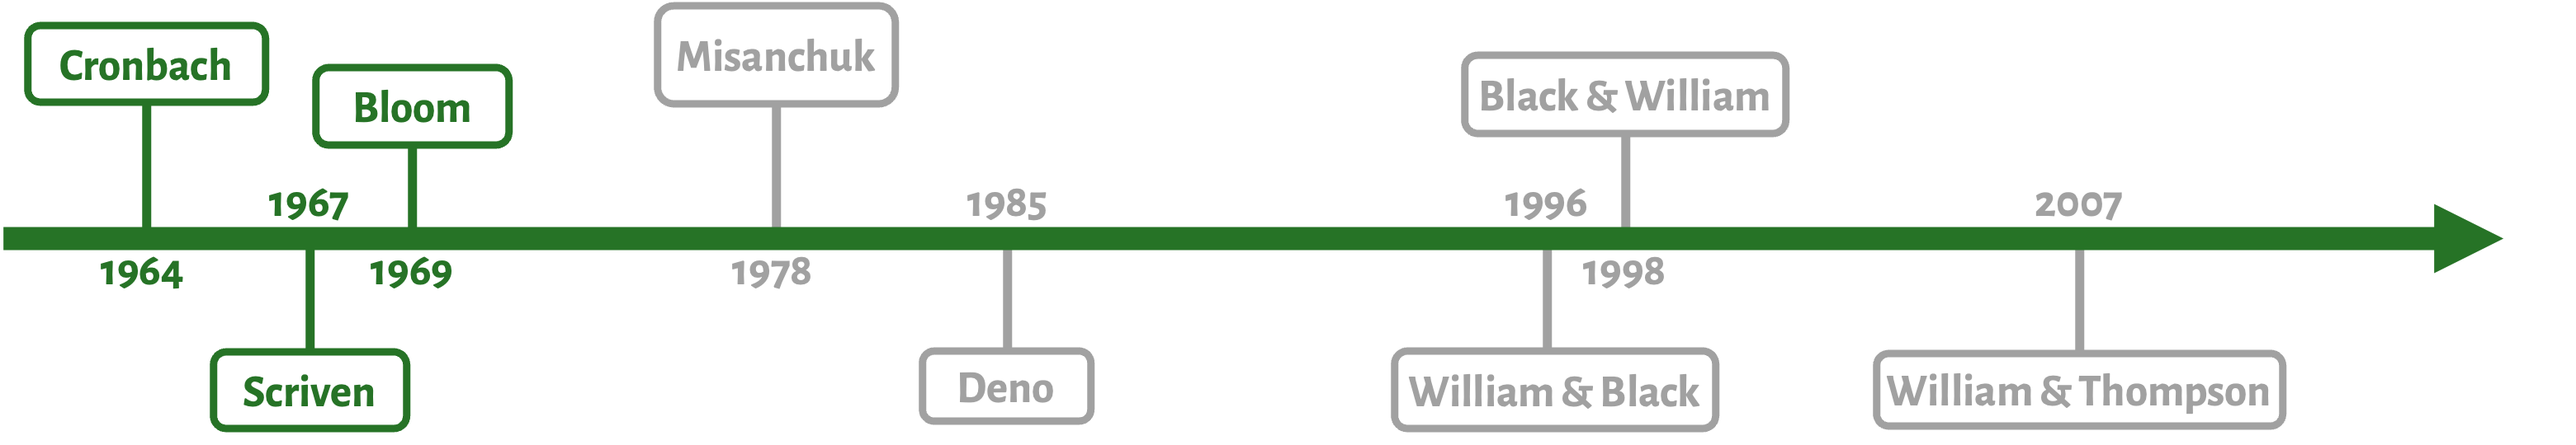
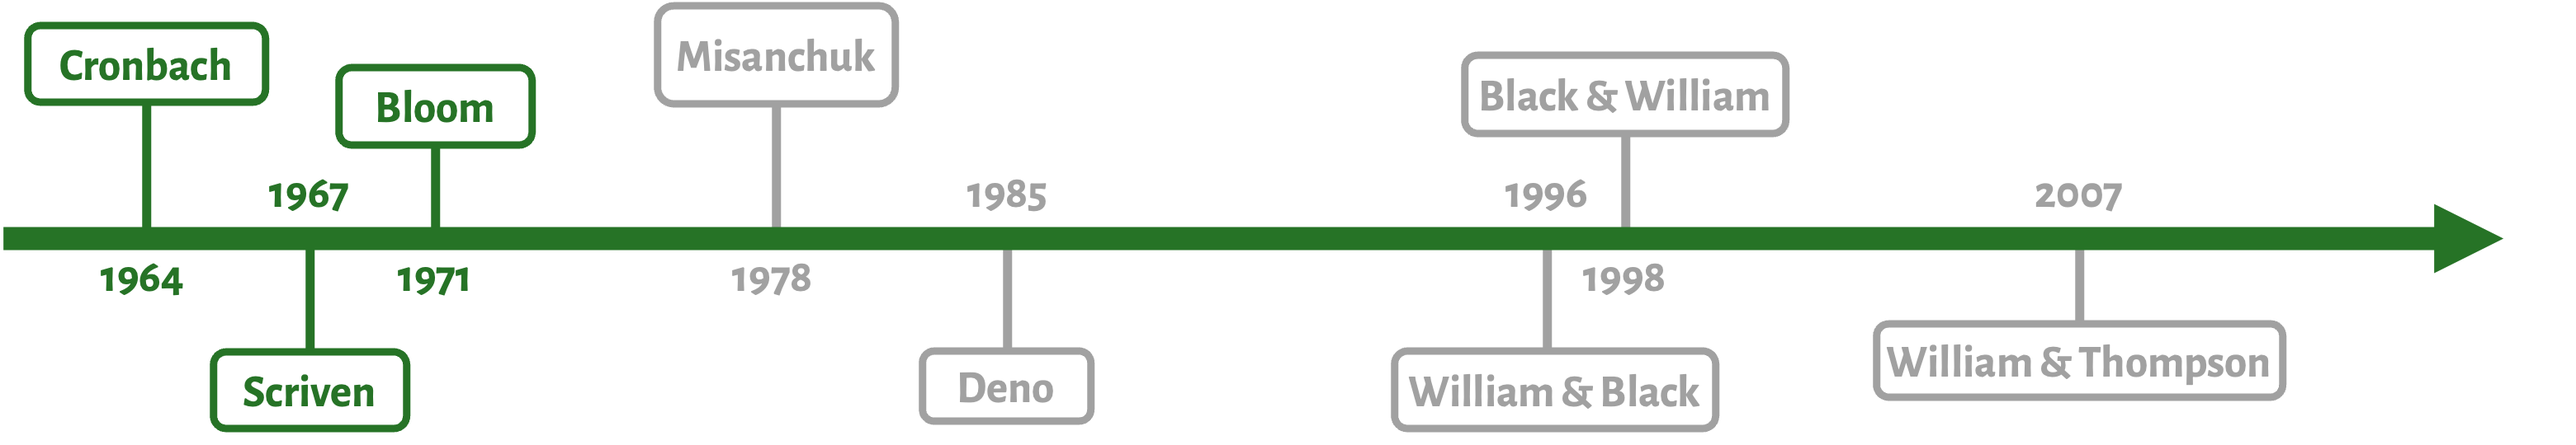
lit

diff --git a/index.html b/index.html
@@ -228,9 +228,9 @@ Tabelle&nbsp;1: Vortragsüberblick
 </center>
 <div>
 <ul>
-<li class="fragment"><em>[…] terminal evaluation (we might call it summative as opposed to formative evaluation) […]</em> <span class="citation" data-cites="scriven1967">(<a href="#/literatur" role="doc-biblioref" onclick="">Scriven, 1967</a>)</span></li>
-<li class="fragment"><em>Evaluation, used to improve the course while it is still fluid</em> <span class="citation" data-cites="cronbach1964">(<a href="#/literatur" role="doc-biblioref" onclick="">Cronbach, 1964</a>)</span></li>
-<li class="fragment"><em>[…] systematic evaluation in the process of curriculum construction, teaching and learning for the purpose of improving any of these three processes […]</em> <span class="citation" data-cites="Bloom1969">(<a href="#/literatur" role="doc-biblioref" onclick="">Bloom, 1969</a>)</span></li>
+<li class="fragment"><em>[…] terminal evaluation (we might call it summative as opposed to formative evaluation) […]</em> <span class="citation" data-cites="scriven1967">(<a href="#/literatur" role="doc-biblioref" onclick="">Scriven, 1967, S. 5</a>)</span></li>
+<li class="fragment"><em>Evaluation, used to improve the course while it is still fluid</em> <span class="citation" data-cites="cronbach1964">(<a href="#/literatur" role="doc-biblioref" onclick="">Cronbach, 1964, S. 236</a>)</span></li>
+<li class="fragment"><em>[…] systematic evaluation in the process of curriculum construction, teaching and learning for the purpose of improving any of these three processes […]</em> <span class="citation" data-cites="bloom1971a">(<a href="#/literatur" role="doc-biblioref" onclick="">Bloom et al., 1971, S. 117</a>)</span></li>
 </ul>
 </div>
 <div class="footer">
@@ -285,17 +285,17 @@ Tabelle&nbsp;1: Vortragsüberblick
 <figure>
 <div class="quarto-figure quarto-figure-left">
 <figure>
-<p><a href="img/WilliamThompson2007.svg" class="lightbox" data-gallery="quarto-lightbox-gallery-4" title="Abbildung 3: Five Key Strategies von @wiliam2007"><img data-src="img/WilliamThompson2007.svg" class="quarto-figure quarto-figure-left" style="width:99.0%" alt="Abbildung 3: Five Key Strategies von Wiliam &amp; Thompson (2007)"></a></p>
+<p><a href="img/WilliamThompson2007.svg" class="lightbox" data-gallery="quarto-lightbox-gallery-4" title="Abbildung 3: Five Key Strategies nach William &amp; Thompson (2007)"><img data-src="img/WilliamThompson2007.svg" class="quarto-figure quarto-figure-left" style="width:99.0%" alt="Abbildung 3: Five Key Strategies nach William &amp; Thompson (2007)"></a></p>
 </figure>
 </div>
-<figcaption>Abbildung 3: Five Key Strategies von <span class="citation" data-cites="wiliam2007">Wiliam &amp; Thompson (<a href="#/literatur" role="doc-biblioref" onclick="">2007</a>)</span></figcaption>
+<figcaption>Abbildung 3: Five Key Strategies nach William &amp; Thompson (2007)</figcaption>
 </figure>
 </div>
 </div>
 </div>
 </div>
 <blockquote>
-<p><em>formative Assessment […] can be conceptualized as consisting of <strong>five key strategies</strong> and <strong>one »big idea«</strong>. […] The »big idea« is that evidence about student learning is used to adjust instruction to better meet student needs.</em> <span class="citation" data-cites="wiliam2007">(<a href="#/literatur" role="doc-biblioref" onclick="">Wiliam &amp; Thompson, 2007</a>. S. 56)</span>.</p>
+<p><em>formative Assessment […] can be conceptualized as consisting of <strong>five key strategies</strong> and <strong>one »big idea«</strong>. […] The »big idea« is that evidence about student learning is used to adjust instruction to better meet student needs.</em> <span class="citation" data-cites="wiliam2007">(<a href="#/literatur" role="doc-biblioref" onclick="">Wiliam &amp; Thompson, 2007</a>. S. 64)</span>.</p>
 </blockquote>
 <div class="footer">
 <p><span style="color: #b4b4b4;"><iconify-icon role="img" inline="" icon="fa6-solid:timeline" aria-label="Icon timeline from fa6-solid Iconify.design set." title="Icon timeline from fa6-solid Iconify.design set."></iconify-icon></span> - <strong><iconify-icon role="img" inline="" icon="fa6-solid:scale-unbalanced" aria-label="Icon scale-unbalanced from fa6-solid Iconify.design set." title="Icon scale-unbalanced from fa6-solid Iconify.design set."></iconify-icon></strong> - <span style="color: #b4b4b4;"><iconify-icon role="img" inline="" icon="charm:binary" aria-label="Icon binary from charm Iconify.design set." title="Icon binary from charm Iconify.design set."></iconify-icon> - <iconify-icon role="img" inline="" icon="fa6-solid:microscope" aria-label="Icon microscope from fa6-solid Iconify.design set." title="Icon microscope from fa6-solid Iconify.design set."></iconify-icon></span></p>
@@ -340,7 +340,7 @@ Tabelle&nbsp;1: Vortragsüberblick
 <p>Digitale Transformation <iconify-icon role="img" inline="" icon="charm:binary" aria-label="Icon binary from charm Iconify.design set." title="Icon binary from charm Iconify.design set."></iconify-icon></p>
 </div>
 <ul>
-<li><strong>Einerseits</strong> ist digitale Technologie in Unterrichtssettings weder notwendige noch hinreichende Bedingung für (Lern-)Erfolg <span class="citation" data-cites="bez2022 hamilton2016 scheiter2019">(<a href="#/literatur" role="doc-biblioref" onclick="">Bez et al., 2022</a>; <a href="#/literatur" role="doc-biblioref" onclick="">Hamilton et al., 2016</a>; <a href="#/literatur" role="doc-biblioref" onclick="">Scheiter &amp; Lachner, 2019</a>)</span></li>
+<li><strong>Einerseits</strong> ist digitale Technologie in Unterrichtssettings weder eine notwendige noch hinreichende Bedingung für (Lern-)Erfolg <span class="citation" data-cites="bez2023 hamilton2016 scheiter2019">(<a href="#/literatur" role="doc-biblioref" onclick="">Bez et al., 2023</a>; <a href="#/literatur" role="doc-biblioref" onclick="">Hamilton et al., 2016</a>; <a href="#/literatur" role="doc-biblioref" onclick="">Scheiter &amp; Lachner, 2019</a>)</span></li>
 <li><strong>Andererseits</strong> sind digitalen Technologien <span class="imp"><em>Charakteristika</em></span> inhärent, welche die Umsetzung von formativem Assessment enorm erleichtern können:
 <ul>
 <li><span class="imp"><em>Echtzeitdatenverarbeitung</em></span> <span class="math inline">\(\Rightarrow\)</span> z.B. sofortiges Feedback</li>
@@ -417,29 +417,29 @@ Bez, S., Burkart, F., Tomasik, M. J., &amp; Merk, S. (2025). How do teachers pro
 <div id="ref-bez2025individuelle" class="csl-entry" role="listitem">
 Bez, S., Paizan, M., Karst, K., &amp; Merk, S. (2025, Januar). Individuelle <span>Lesef<span>ö</span>rderung</span> durch <span>Lehramtsstudierende</span> auf der <span>Basis</span> von <span>Lernverlaufsdiagnostik</span>. <em><span>GEBF</span></em>.
 </div>
-<div id="ref-bez2022" class="csl-entry" role="listitem">
-Bez, S., Tomasik, M. J., &amp; Merk, S. (2022). Datenkompetenz Als Notwendige <span>Voraussetzung</span> Für Das <span>Gelingen</span> von Datenbasierter <span>Unterrichtsentwicklung</span> in Einer Digitalisierten (<span>Bildungs-</span>)<span>Welt</span>. <em>Zeitschrift für Erziehungswissenschaft</em>.
+<div id="ref-bez2023" class="csl-entry" role="listitem">
+Bez, S., Tomasik, M. J., &amp; Merk, S. (2023). <span>Data-based decision making in einer digitalen Welt: Data Literacy von Lehrpersonen als notwendige Voraussetzung</span>. In K. Scheiter &amp; I. Gogolin (Hrsg.), <em><span>Bildung f<span>ü</span>r eine digitale Zukunft</span></em> (S. 339–362). Springer Fachmedien. <a href="https://doi.org/10.1007/978-3-658-37895-0_14">https://doi.org/10.1007/978-3-658-37895-0_14</a>
 </div>
 <div id="ref-bez_inprep" class="csl-entry" role="listitem">
 Bez, S., Tomasik, M., &amp; Merk, S. (in preparation). <em>Fostering teachers’ interpretations of formative assessment results using clustered heatmaps</em>.
 </div>
 <div id="ref-black1998" class="csl-entry" role="listitem">
-Black, P., &amp; Wiliam, D. (1998). Assessment and <span>Classroom Learning</span>. <em>Assessment in Education: Principles, Policy &amp; Practice</em>, <em>5</em>(1), 7–74. <a href="https://doi.org/10.1080/0969595980050102">https://doi.org/10.1080/0969595980050102</a>
+Black, P., &amp; Wiliam, D. (1998). Assessment and classroom learning. <em>Assessment in Education: Principles, Policy &amp; Practice</em>, <em>5</em>(1), 7–74. <a href="https://doi.org/10.1080/0969595980050102">https://doi.org/10.1080/0969595980050102</a>
 </div>
-<div id="ref-Bloom1969" class="csl-entry" role="listitem">
-Bloom, B. S. (1969). Some theoretical issues relating to educational evaluation. In R. W. Taylor (Hrsg.), <em>Educational evaluation: <span>New</span> roles, new means. <span>The</span> 68th yearbook of the national society for the study of education, part <span>II</span></em> (S. 26–50). University of Chicago Press.
+<div id="ref-bloom1971a" class="csl-entry" role="listitem">
+Bloom, B. S., Hastings, J. T., &amp; Madaus, G. F. (1971). Formative <span>Evaluation</span>. In B. S. Bloom, J. T. Hastings, &amp; G. F. Madaus (Hrsg.), <em>Handbook on formative and summative evaluation of student learning</em> (S. 117–138). McGraw-Hill.
 </div>
 <div id="ref-cronbach1964" class="csl-entry" role="listitem">
 Cronbach, L. J. (1964). Evaluation for course improvement. In R. W. Heath (Hrsg.), <em>New <span>Curricula</span></em> (S. 231–248). <span>Harper &amp; Row</span>.
 </div>
 <div id="ref-dunn2009" class="csl-entry" role="listitem">
-Dunn, K. E., &amp; Mulvenon, S. W. (2009). <em>A critical review of research on formative assessments: <span>The</span> limited scientific evidence of the impact of formative Assessments in education</em>. <a href="https://doi.org/10.7275/JG4H-RB87">https://doi.org/10.7275/JG4H-RB87</a>
+Dunn, K. E., &amp; Mulvenon, S. W. (2009). <em>A critical review of research on formative assessments: <span>The</span> limited scientific evidence of the impact of formative assessments in education</em>. <em>14</em>(7). <a href="https://doi.org/10.7275/JG4H-RB87">https://doi.org/10.7275/JG4H-RB87</a>
 </div>
 <div id="ref-fuchs1986" class="csl-entry" role="listitem">
 Fuchs, L. S., &amp; Fuchs, D. (1986). Effects of systematic formative evaluation: A meta-analysis. <em>Exceptional Children</em>, <em>53</em>(3), 199–208.
 </div>
 <div id="ref-hamilton2016" class="csl-entry" role="listitem">
-Hamilton, E. R., Rosenberg, J. M., &amp; Akcaoglu, M. (2016). The <span>Substitution Augmentation Modification Redefinition</span> (<span>SAMR</span>) Model: <span>A</span> Critical Review and Suggestions for Its Use. <em>TechTrends</em>, <em>60</em>(5), 433–441. <a href="https://doi.org/10.1007/s11528-016-0091-y">https://doi.org/10.1007/s11528-016-0091-y</a>
+Hamilton, E. R., Rosenberg, J. M., &amp; Akcaoglu, M. (2016). The <span>Substitution Augmentation Modification Redefinition</span> (<span>SAMR</span>) model: <span>A</span> critical review and suggestions for its use. <em>TechTrends</em>, <em>60</em>(5), 433–441. <a href="https://doi.org/10.1007/s11528-016-0091-y">https://doi.org/10.1007/s11528-016-0091-y</a>
 </div>
 <div id="ref-kingston2011" class="csl-entry" role="listitem">
 Kingston, N., &amp; Nash, B. (2011). Formative assessment: <span>A</span> meta-analysis and a call for research. <em>Educational Measurement: Issues and Practice</em>, <em>30</em>(4), 28–37. <a href="https://doi.org/10.1111/j.1745-3992.2011.00220.x">https://doi.org/10.1111/j.1745-3992.2011.00220.x</a>
@@ -454,7 +454,7 @@ McLaughlin, T., &amp; Yan, Z. (2017). Diverse delivery methods and strong psycho
 Scheiter, K., &amp; Lachner, A. (2019). <span>DigitalPakt was nun? Eine Positionierung aus Sicht der Lehr-Lernforschung</span>. <em>Unterrichtswissenschaft</em>, <em>47</em>(4), 547–564. <a href="https://doi.org/10.1007/s42010-019-00059-2">https://doi.org/10.1007/s42010-019-00059-2</a>
 </div>
 <div id="ref-scriven1967" class="csl-entry" role="listitem">
-Scriven, M. (1967). The Methodology of Evaluation. In R. W. Tyler, R. M. Gagne, &amp; M. Scriven (Hrsg.), <em>Perspectives on Curriculum Evaluation</em> (S. 39–83). <span>Rand McNally</span>.
+Scriven, M. (1967). The methodology of evaluation. In R. W. Tyler, R. M. Gagne, &amp; M. Scriven (Hrsg.), <em>Perspectives on curriculum evaluation</em> (S. 39–83). Rand McNally.
 </div>
 <div id="ref-timmerhaus2001" class="csl-entry" role="listitem">
 Timmerhaus, W. (2001). <em>Fachdidaktik als konstitutives <span>Element</span> universit<span>ä</span>rer <span>Lehrerbildung</span></em>. Tectum.
